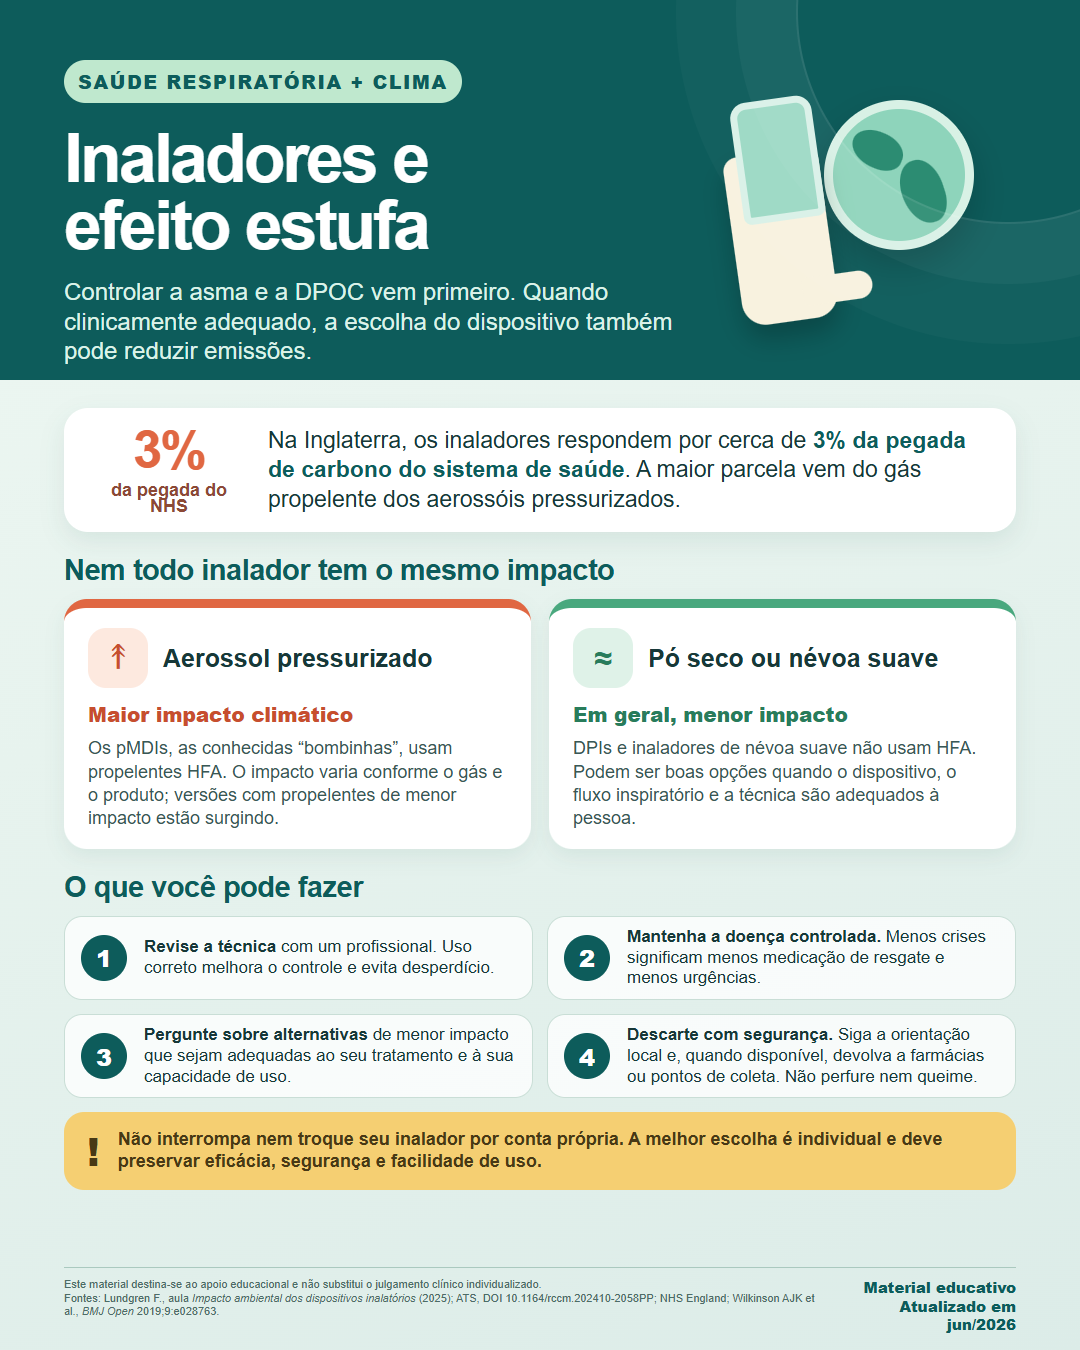
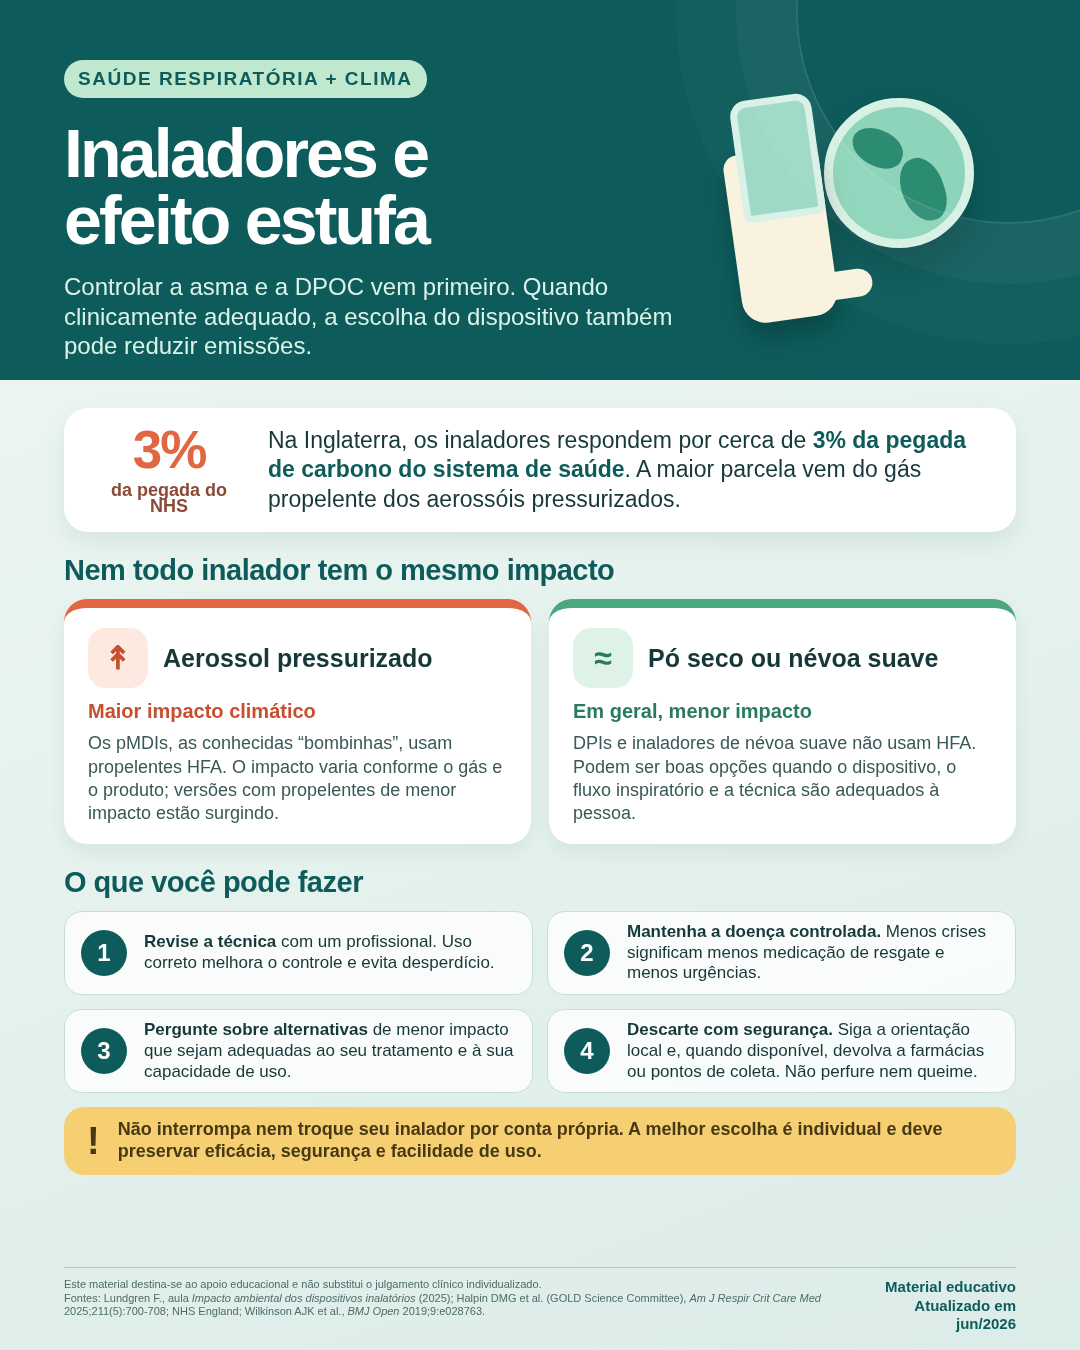
Corrige atribuição da referência 10.1164/rccm.202410-2058PP (Halpin et al., GOLD, AJRCCM 2025) no infográfico Inaladores e efeito estufa

diff --git a/biblioteca/infograficos/medicos/inaladores_efeito_estufa/infografico-inaladores-efeito-estufa.html b/biblioteca/infograficos/medicos/inaladores_efeito_estufa/infografico-inaladores-efeito-estufa.html
@@ -216,7 +216,7 @@
     <footer>
       <div class="refs">
         Este material destina-se ao apoio educacional e não substitui o julgamento clínico individualizado.<br>
-        Fontes: Lundgren F., aula <i>Impacto ambiental dos dispositivos inalatórios</i> (2025); ATS, DOI 10.1164/rccm.202410-2058PP; NHS England; Wilkinson AJK et al., <i>BMJ Open</i> 2019;9:e028763.
+        Fontes: Lundgren F., aula <i>Impacto ambiental dos dispositivos inalatórios</i> (2025); Halpin DMG et al. (GOLD Science Committee), <i>Am J Respir Crit Care Med</i> 2025;211(5):700-708; NHS England; Wilkinson AJK et al., <i>BMJ Open</i> 2019;9:e028763.
       </div>
       <div class="stamp">Material educativo<br>Atualizado em jun/2026</div>
     </footer>

diff --git a/biblioteca/infograficos/medicos/inaladores_efeito_estufa/bibliografia-inaladores-efeito-estufa.md b/biblioteca/infograficos/medicos/inaladores_efeito_estufa/bibliografia-inaladores-efeito-estufa.md
@@ -8,7 +8,7 @@ Material educativo atualizado em 15 de junho de 2026, após revisão da aula **I
 
 1. Lundgren F. **Impacto ambiental dos dispositivos inalatórios.** Aula apresentada no Congresso Pernambucano de Pneumologia; 2025. Material educacional não publicado fornecido pelo autor.
 
-2. American Thoracic Society. **Documento sobre impacto ambiental das terapias inalatórias e escolhas de tratamento.** *American Journal of Respiratory and Critical Care Medicine.* DOI: [10.1164/rccm.202410-2058PP](https://doi.org/10.1164/rccm.202410-2058PP).
+2. Halpin DMG, Balmes J, Han MK, Papi A, Martinez FJ, Montes de Oca M, et al. **Climate Change and Chronic Obstructive Pulmonary Disease: A GOLD Science Committee Review.** *American Journal of Respiratory and Critical Care Medicine.* 2025;211(5):700-708. DOI: [10.1164/rccm.202410-2058PP](https://doi.org/10.1164/rccm.202410-2058PP).
 
 3. Jeswani HK, Azapagic A. **Life cycle environmental impacts of inhalers.** *Journal of Cleaner Production.* 2019;237:117733. DOI: [10.1016/j.jclepro.2019.117733](https://doi.org/10.1016/j.jclepro.2019.117733).
 
